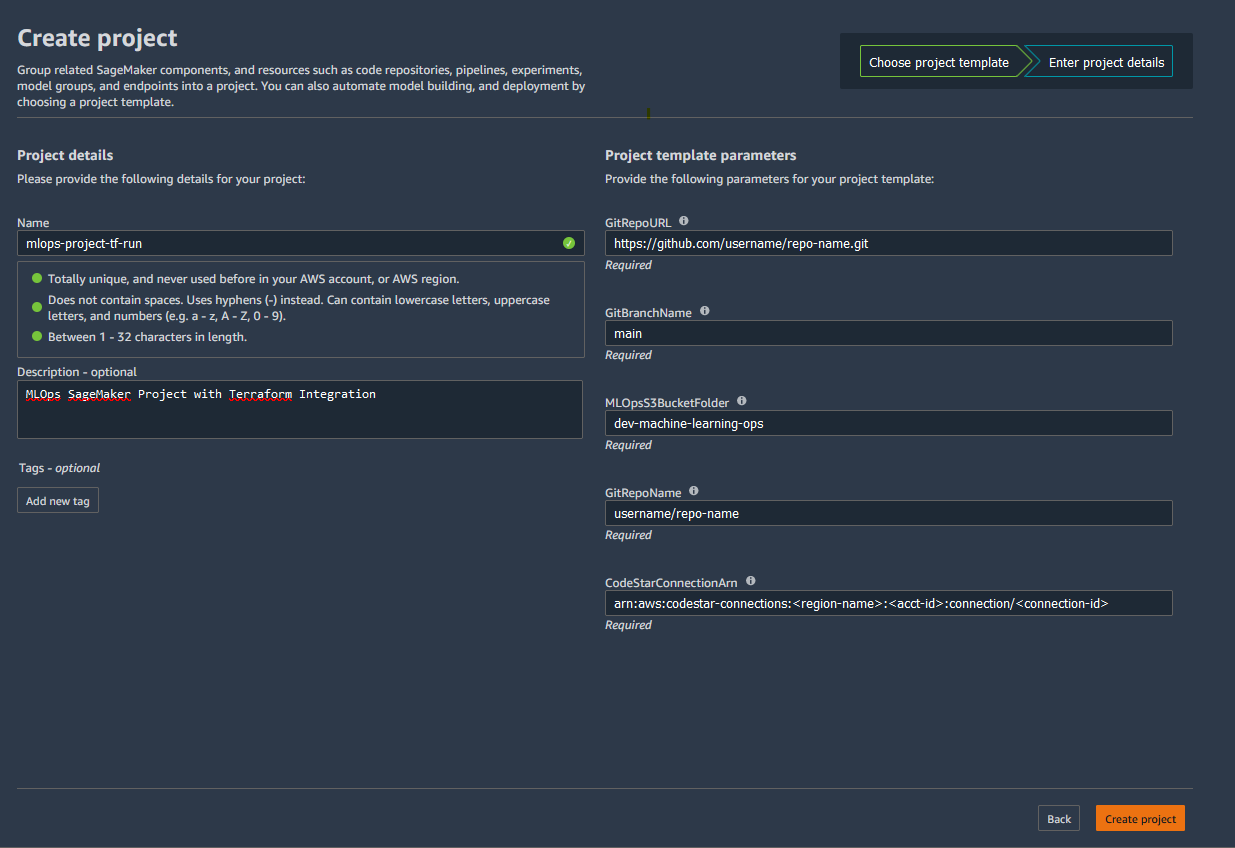
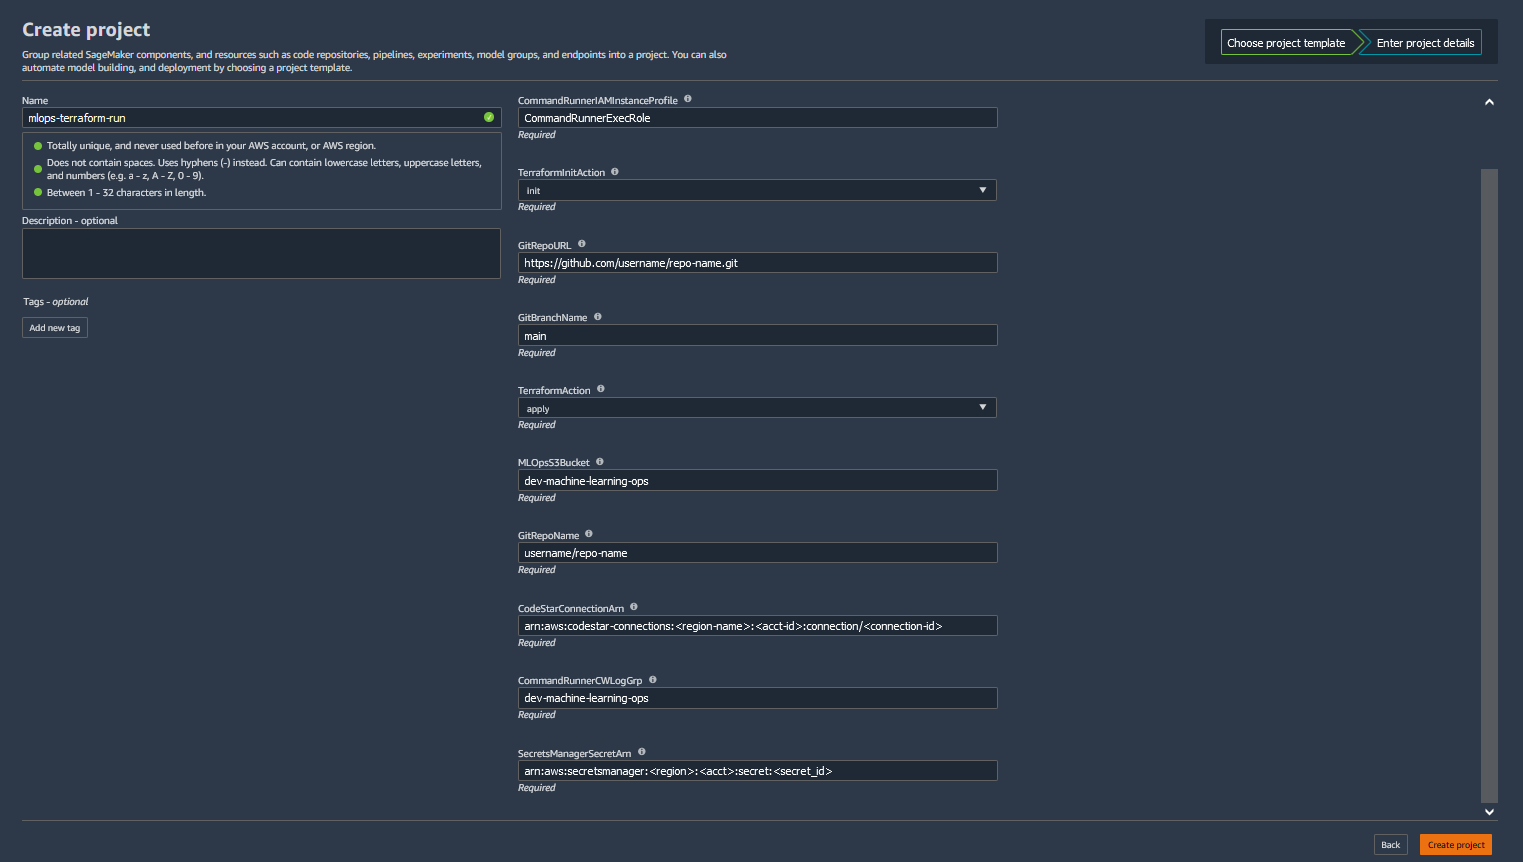
formats and fixes

diff --git a/mlops-tf-pipelines/README.md b/mlops-tf-pipelines/README.md
@@ -2,7 +2,7 @@
 
 This section of the repository contains steps to set up Amazon SageMaker Project from Terraform.
 
-[A SageMaker Project] (https://docs.aws.amazon.com/sagemaker/latest/dg/sagemaker-projects-whatis.html) helps organizations set up and standarize environments for automating different steps involved in a Machine Learning Lifecycle.
+[A SageMaker Project](https://docs.aws.amazon.com/sagemaker/latest/dg/sagemaker-projects-whatis.html) helps organizations set up and standarize environments for automating different steps involved in a Machine Learning Lifecycle.
 
 While notebooks are helpful for model building and experimentation, a team of data scientists and ML engineers sharing code needs a more scalable way to maintain code consistency and strict version control.
 
@@ -41,7 +41,7 @@ In this section of this repository we will take a look how we can set up an Amaz
             - CloudWatch Log group.
             - Secrets Manager secret to store the GitHub Credentials.
             
-    * Second package is for the [Amazon SageMaker Project Set Up] (../../tree/main/sagemaker-project-setup)
+    * Second package is for the [Amazon SageMaker Project Set Up](../../tree/main/sagemaker-project-setup)
         - This has the terraform code to provision Machine Learning Pipeline resources associated with the SageMaker project.
         - At a high level those resources are:
             - AWS CodePipeline for the ML workflow.
@@ -74,10 +74,10 @@ In this section of this repository we will take a look how we can set up an Amaz
 
 1. As mentioned earlier, we will be using CommandRunner Utility to run the second package of the Terraform Code to provision the ML pipeline resources.
 2. CommandRunner is not enabled by default, we will need to register it to start using it.
-3. Follow the instructions provided [in this link for the CommandRunner set up] (https://aws.amazon.com/premiumsupport/knowledge-center/cloudformation-commandrunner-stack/)
+3. Follow the instructions provided [in this link for the CommandRunner set up](https://aws.amazon.com/premiumsupport/knowledge-center/cloudformation-commandrunner-stack/)
 
 ### Step 3: Terraform Installation.
-1. Install Terraform on your development machine. [Reference Link] (https://learn.hashicorp.com/tutorials/terraform/install-cli)
+1. Install Terraform on your development machine. [Reference Link](https://learn.hashicorp.com/tutorials/terraform/install-cli)
 
 ### Step 4: Service Catalog Set up.
 1. Clone this GitHub repository. __"git clone https://github.com/aws-samples/sagemaker-custom-project-templates.git"__.
@@ -86,26 +86,54 @@ In this section of this repository we will take a look how we can set up an Amaz
 4. Initialize Terraform. Run __"terraform init"__.
 5. Generate the Terraform plan. Run __"terraform plan"__.
 6. Execute the Terraform code. Run __"terraform apply"__.
+7. This terraform execution will return the follow outputs. Make a note of these outputs.
+    - IAM Instance Profile for the CommandRunner Utility.
+    - S3 Bucket Name.
+    - Secrets Manager Secret ARN which has the GitHub Secrets.
+    - Service Catalog Product Name.
+    - CloudWatch Log Group Name.
 
 ### Step 5: Create the Amazon SageMaker Project inside the SageMaker Studio.
 
 1. Open SageMaker Studio and sign in to your user profile.
 2. Choose the SageMaker __components and registries__ icon on the left, and choose the __Create project__ button.
 3. The default view displays SageMaker templates. Switch to the __Organization__ templates tab to see custom project templates.
-4. The template you created will be displayed in the template list. (If you do not see it yet, make sure the correct execution role is added to the product and the __sagemaker:studio-visibility__ tag with a value of __true__ is added to the Service Catalog product).
-5. Choose the template and click Select project template.
+4. Look for the template with the Service Catalog Product Name you noted from the outputs of the previous Terraform execution step.
 
     ![](images/sm-projects-image-1.png)
-
-1. Enter a name and optional description for the project. 
+    
+5. Choose the template and click Select project template.
+6. Enter a name and optional description for the project. 
 
     ![](images/sm-projects-image-2.png)
 
-2. For GitRepoURL, enter the URL of your Git repository for the model build code in https://git-url.git format.
-3. For GitBranchName, enter the branch to use from your Git repository for pipeline activities.
-4. For MLOpsS3BucketFolder, enter the S3 Bucket created as part of Step1.
-5. For GitRepoName, enter the Git repository name in the format of username/repository name or organization/repository name.
-6. For Codestar Connection ARN, enter the ARN of the AWS CodeStar connection you created in Step 1.
+7. We now need to enter the values for the Project Template parameters. They are populated with the default values, but needs to be updated as per your environment.
+8. For CommandRunnerIAMInstanceProfile, enter the value you had noted from the Output of Terraform Run of previous step.
+9. For TerraformInitAction, select "init". 
+10. For GitRepoURL, enter the URL of your GitHub repository that will have model build code in https://git-url.git format.
+11. For GitBranchName, enter the branch to use from your Git repository for pipeline activities.
+12. For TerraformAction - select "apply".
+13. For MLOpsS3Bucket, enter the value you had noted from the Output of Terraform Run of previous step.
+14. For GitRepoName, enter the Git repository name in the format of username/repository name or organization/repository name.
+15. For Codestar Connection ARN, enter the ARN of the AWS CodeStar connection you created in Step 1.
+16. For CommandRunerCWLogGrp, enter the value you had noted from the Output of Terraform Run of previous step.
+17. Select Create Project.
+18. This will trigger the CloudFormation CommandRunner Utility which will inturn perform the Terraform execution to provision the SageMaker Pipeline resources.
+19. The logs of this terraform run will be available in the CloudWatch Log Group you noted from the Output of Terraform Run of previous step.
+20. You have now successfully created an MLOps SageMaker Project with Terraform integration. 
 
 
-You have now successfully created an MLOps SageMaker Project with Terraform integration. 
+### Step 6: Cleanup (Optional)
+
+1. To cleanup the SageMaker Project resources, right click on the SageMaker Project and select "Update Project"
+
+    ![](images/sm-projects-image-3.png)
+
+2. Change TerraformAction parameter to "destroy".
+3. Update the SageMaker Project.
+4. Monitor the logs in CloudWatch Log group for completion of Terraform run.
+5. Once it is complete, right click on the SageMaker Project and select "Delect Project" to delete the SageMaker Project.
+6. Now go back to the development machine where you had cloned this repo.
+7. Navigate back to the "Service Catalog Set up" directory. Run __"cd mlops-tf-pipelines/service-catalog-setup/"__.
+8. Generate the Terraform plan. Run __"terraform plan"__.
+9. Execute the Terraform Destroy. Run __"terraform destroy"__.
